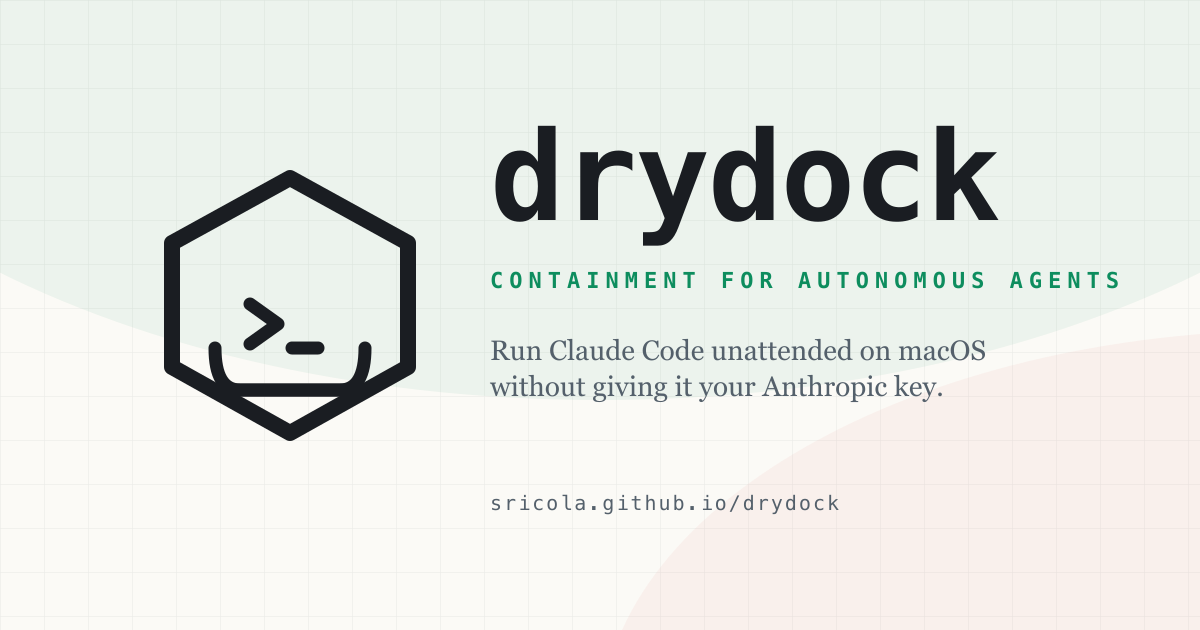
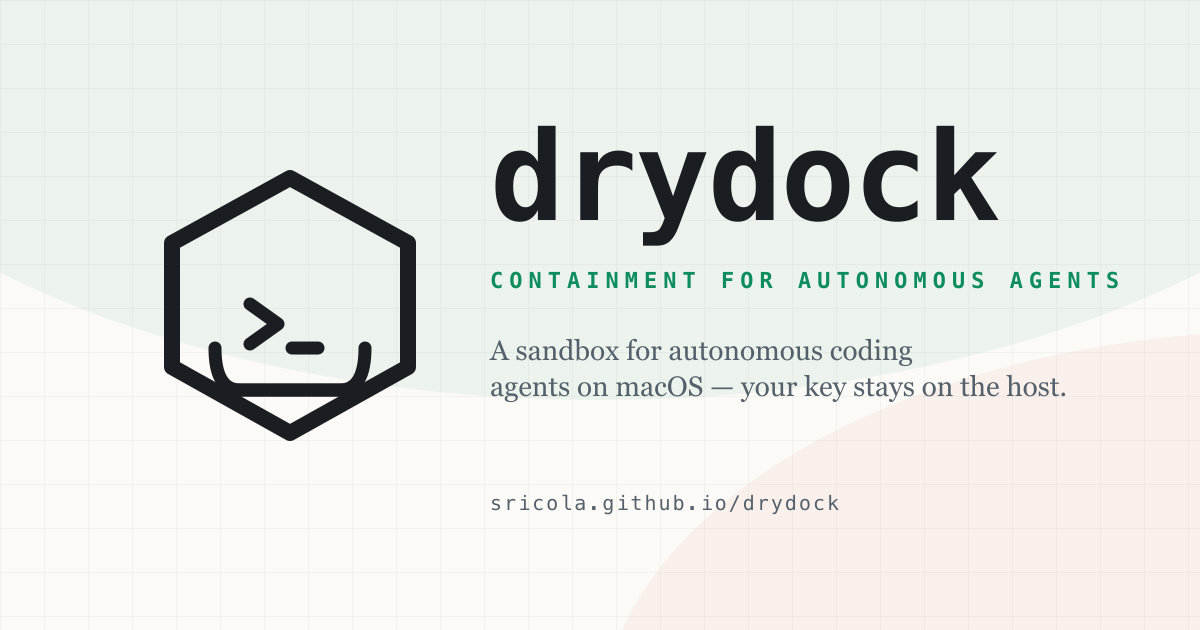
copy(lede): direct identity — drydock is a sandbox for coding agents
The old lede led with the workflow outcome (run unattended without
your key). Switches to leading with what drydock IS, then the design
moves. Reads as identity, not feature-list.

Updated everywhere: site hero, meta description, og:description, OG
card text, README hero. The kicker label and H1 stay (containment
for autonomous coding agents / Untrusted agents, hardware-isolated).

Changed region(s): [[0.4008, 0.5429, 0.8942, 0.6333]]

diff --git a/site/index.html b/site/index.html
@@ -4,12 +4,12 @@
 <meta charset="utf-8">
 <meta name="viewport" content="width=device-width, initial-scale=1">
 <title>drydock — untrusted agents, hardware-isolated</title>
-<meta name="description" content="Run Claude Code unattended on macOS without giving it your Anthropic key. Per-task isolated VMs, credential gateway, deny-by-default egress, human-gated diff push.">
+<meta name="description" content="A sandbox for autonomous coding agents on macOS. Per-task hardware-isolated VMs, credential gateway, deny-by-default egress, human-gated diff push.">
 <link rel="icon" type="image/svg+xml" href="favicon.svg">
 <link rel="alternate icon" href="favicon-32.png">
 <!-- Open Graph / Twitter card -->
 <meta property="og:title" content="drydock — untrusted agents, hardware-isolated">
-<meta property="og:description" content="Run Claude Code unattended on macOS without giving it your Anthropic key.">
+<meta property="og:description" content="A sandbox for autonomous coding agents on macOS. The agent never sees your real Anthropic key.">
 <meta property="og:image" content="https://sricola.github.io/drydock/og-image.png">
 <meta property="og:url" content="https://sricola.github.io/drydock/">
 <meta property="og:type" content="website">
@@ -229,7 +229,7 @@ footer .mk path{stroke:var(--faint)}
   <div class="wrap">
     <div class="kicker reveal"><span class="bar"></span>containment for autonomous coding agents</div>
     <h1 class="reveal">Untrusted agents,<br><span class="t">hardware-isolated.</span></h1>
-    <p class="lede reveal">Run Claude Code unattended on macOS without giving it your Anthropic key. Each task runs in a <b>per-task Linux VM</b>; the model API is reached through a host-side credential gateway; the only thing that leaves the sandbox is a <span class="ic">git diff</span> you approve before it touches origin.</p>
+    <p class="lede reveal">drydock is a sandbox for autonomous coding agents on macOS. Each task runs in a <b>per-task hardware-isolated VM</b>; the agent never sees your real Anthropic key — a host-side credential gateway issues short-lived budgeted bearer tokens. Egress is <b>deny-by-default</b>. The only artifact that leaves the sandbox is a captured <span class="ic">git diff</span>, and it doesn't reach origin until you approve it.</p>
     <div class="chips reveal">
       <span class="chip">Apple&nbsp;<b>silicon</b></span>
       <span class="chip">apple/container&nbsp;<b>1.0</b></span>

diff --git a/README.md b/README.md
@@ -4,11 +4,12 @@
 
 # drydock
 
-Run Claude Code unattended on macOS without giving it your Anthropic key.
-Each task runs in a per-task hardware-isolated VM with deny-by-default
-egress; the model API is reached via a host-side credential gateway; the
-only thing that leaves the sandbox is a `git diff` you approve before it
-touches origin.
+drydock is a sandbox for autonomous coding agents on macOS. Each task runs
+in a per-task hardware-isolated VM; the agent never sees your real
+Anthropic key — a host-side credential gateway issues short-lived
+budgeted bearer tokens. Egress is deny-by-default. The only artifact
+that leaves the sandbox is a captured `git diff`, and it doesn't reach
+origin until you approve it.
 
 Design narrative: [`site/index.html`](site/index.html). 
 Security claims:[`THREAT_MODEL.md`](THREAT_MODEL.md).